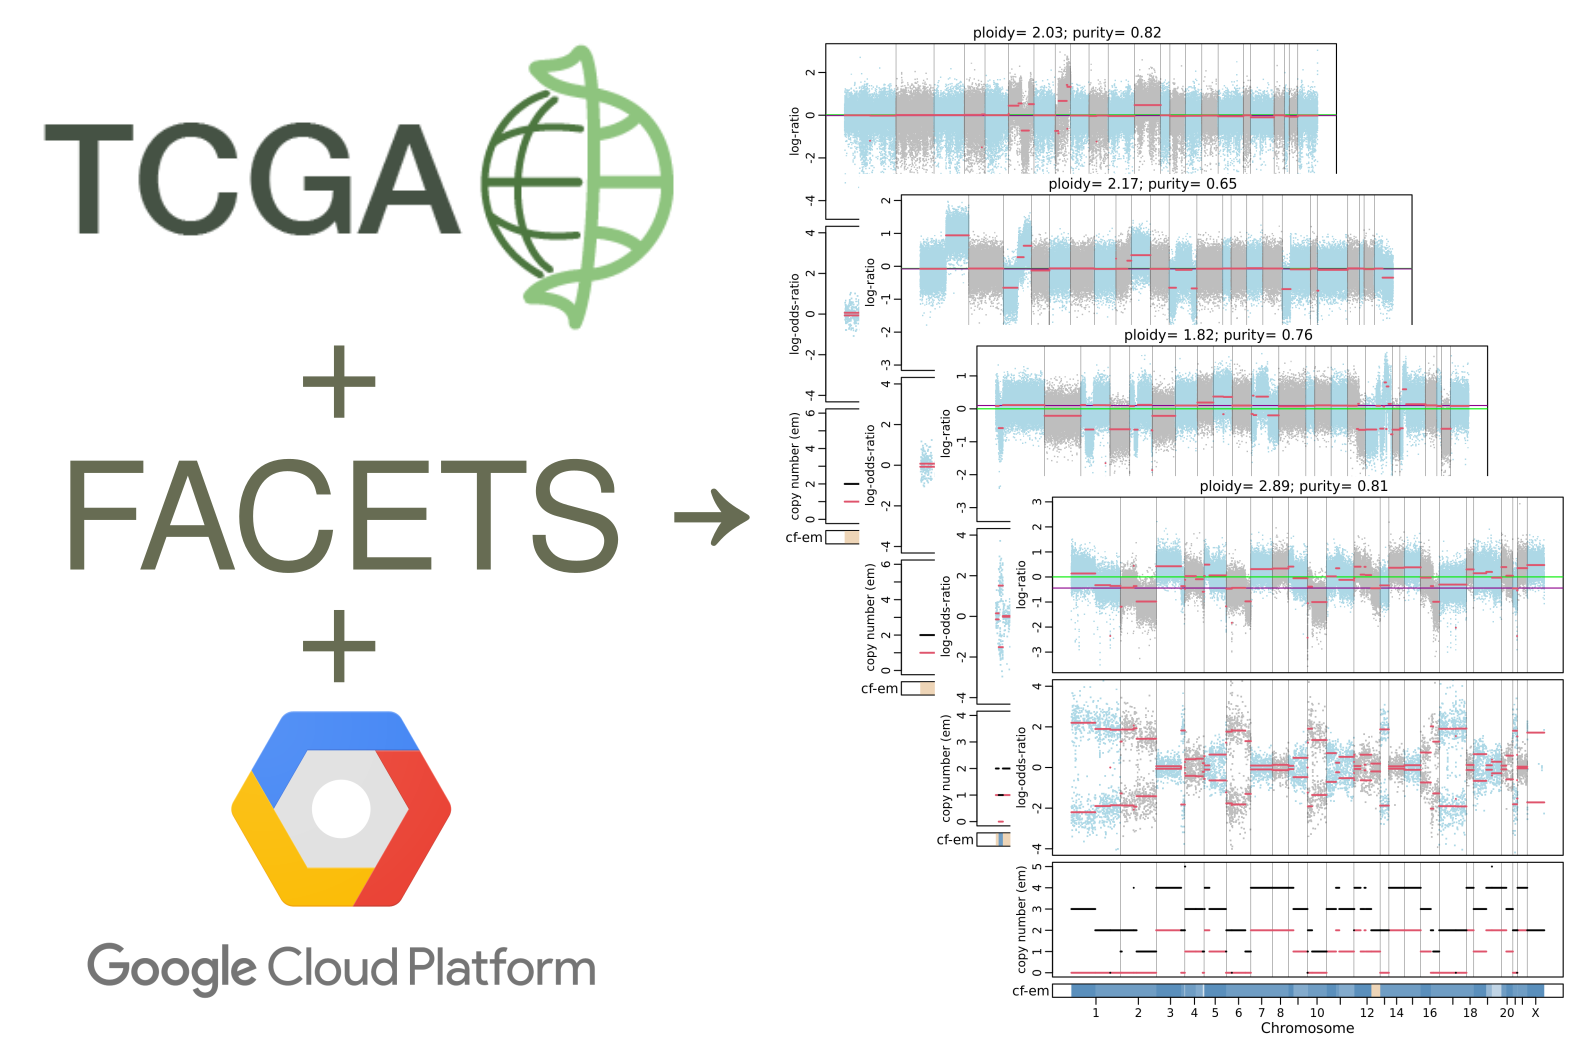
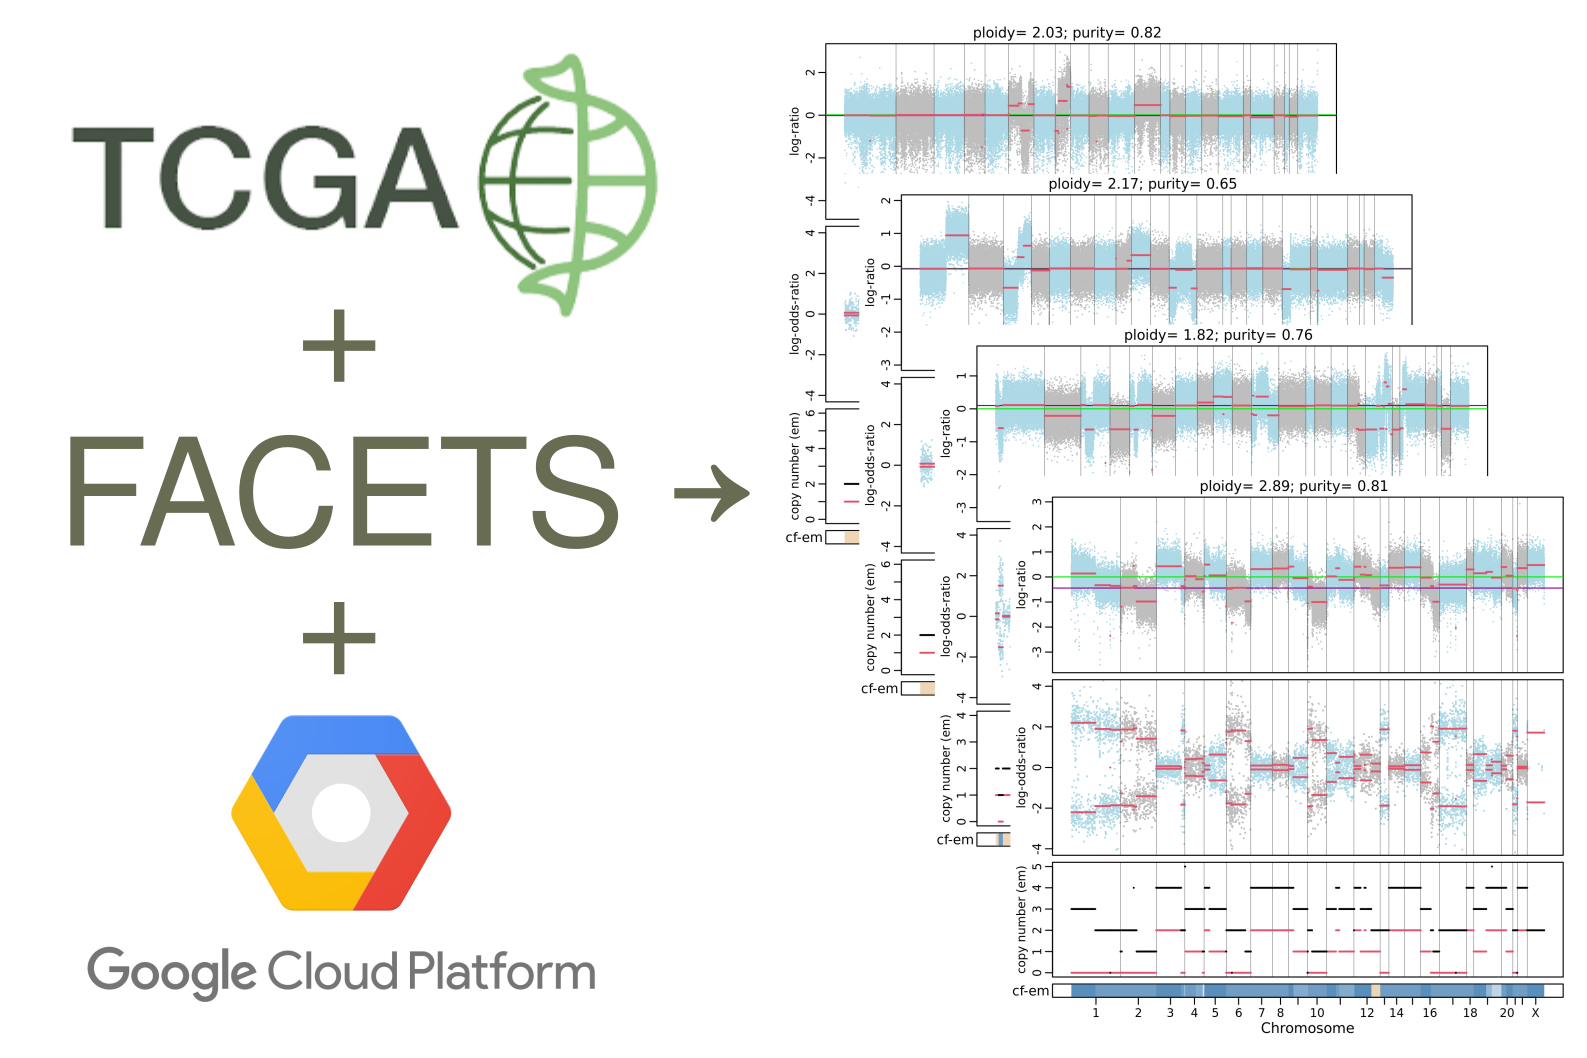
add img + improve README

diff --git a/README.md b/README.md
@@ -209,4 +209,4 @@ and run the bash scripts above from within this instance.
 ## References
 
 [R. Shen, V.E. Seshan. FACETS: allele-specific copy number and clonal heterogeneity analysis tool for high-throughput DNA
-sequencing Nucleic Acids Res., 44 (2016), p. e131.]<https://academic.oup.com/nar/article/44/16/e131/2460163>
+sequencing Nucleic Acids Res., 44 (2016), p. e131](https://academic.oup.com/nar/article/44/16/e131/2460163)
